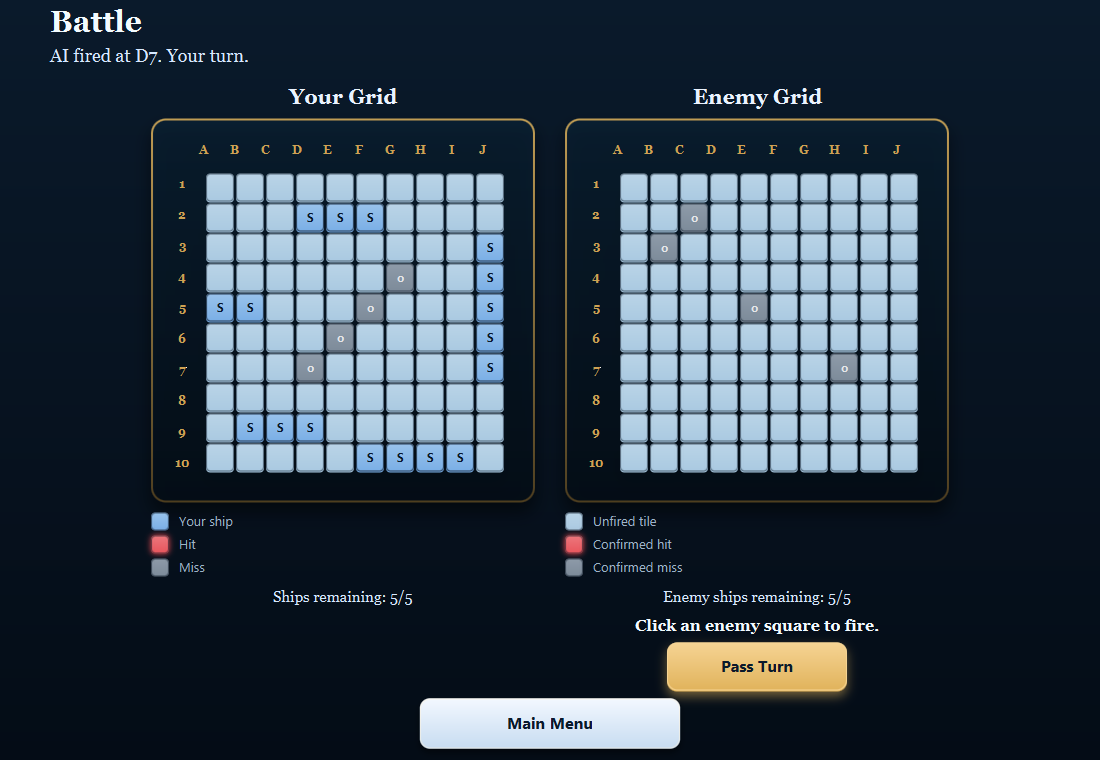
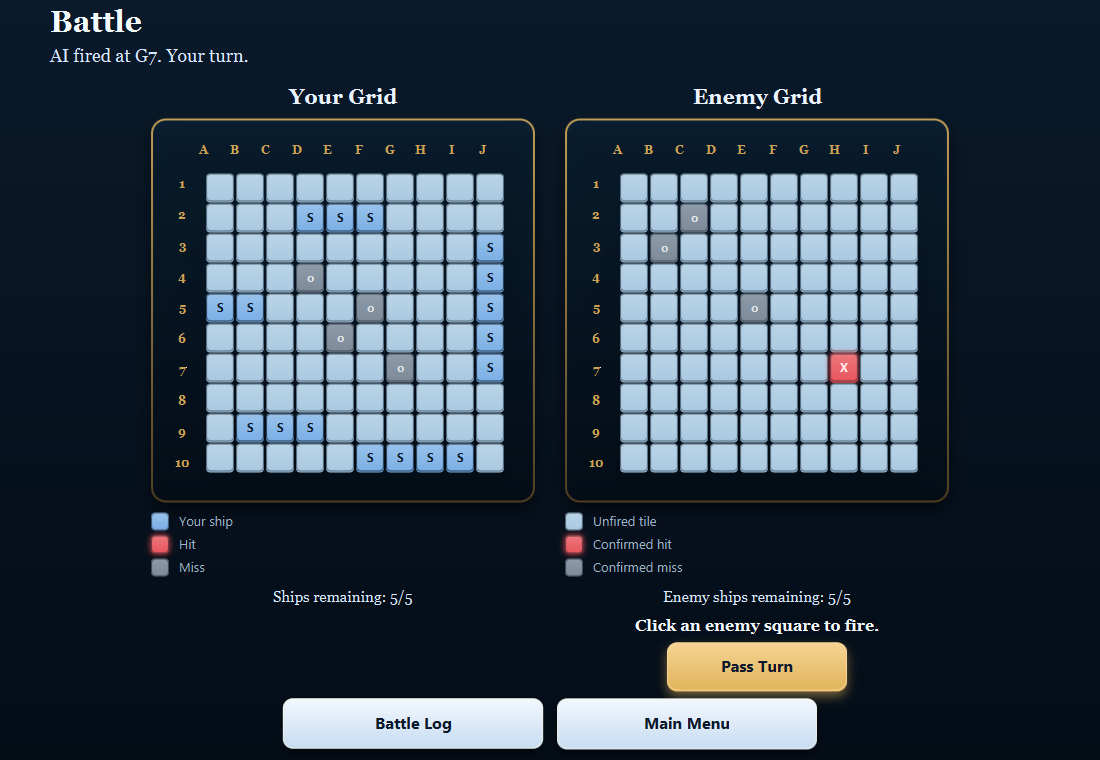
BattleshipJava 3.2
Keep a battle log, and let you read it during the game.

The status line says what just happened and then it is gone, replaced by the
next thing. That is fine while you are paying attention and useless the moment
you are not: come back to a game you left ten minutes ago and there is no way
to find out how it got into the state it is in.

Every shot from both sides is now recorded, numbered in order, saying who
fired, where, and what it did, naming the ship when one goes down. Battle Log
at the bottom of the screen opens it, scrolled to the newest entry, and
clicking outside it or pressing Close puts it away. It covers single-player,
hot-seat, where it names which player fired, and network games.

It is an overlay rather than a panel beside the boards on purpose. The battle
layout already fills the smallest window the game allows, as 2.0 found out the
hard way, and there is nothing left to give sideways without pushing the
grids off the screen again at 1100x760.

diff --git a/src/ui/GameScene.java b/src/ui/GameScene.java
@@ -82,6 +82,8 @@ public class GameScene implements NetworkMessageListener {
     // Counted for the single-player record only; see Statistics.
     private int playerShots;
     private int playerHits;
+    // Every shot of the current game, newest last, shown by the Battle Log button.
+    private final java.util.List<String> battleLog = new java.util.ArrayList<>();
     private NetworkGameSession networkSession;
     private StackPane root;
     private Pane effectsLayer;
@@ -227,7 +229,12 @@ public class GameScene implements NetworkMessageListener {
             }
             menuAction.run();
         });
-        VBox bottomBox = new VBox(12, menuButton);
+        Button logButton = UiFactory.createMenuButton("Battle Log", audioManager, this::showBattleLog);
+
+        javafx.scene.layout.HBox bottomButtons = new javafx.scene.layout.HBox(14, logButton, menuButton);
+        bottomButtons.setAlignment(Pos.CENTER);
+
+        VBox bottomBox = new VBox(12, bottomButtons);
         bottomBox.setAlignment(Pos.CENTER);
         bottomBox.setPadding(new Insets(8, 0, 8, 0));
 
@@ -267,6 +274,7 @@ public class GameScene implements NetworkMessageListener {
         }
         animateShot(playerButtons[y][x], () -> {
             AttackOutcome outcome = playerBoard.receiveAttack(x, y);
+            log("Your opponent", x, y, outcome);
             if (outcome.getResult() == AttackResult.ALREADY_ATTACKED || outcome.getResult() == AttackResult.INVALID) {
                 finishGame("Connection Closed", "An illegal network move was detected.");
                 return;
@@ -425,6 +433,7 @@ public class GameScene implements NetworkMessageListener {
             if (outcome.getResult() == AttackResult.HIT) {
                 playerHits++;
             }
+            log(isLocalMultiplayer ? "Player " + currentPlayer : "You", x, y, outcome);
 
             markEnemyClearedWater(outcome);
             clearSelectedTarget();
@@ -479,6 +488,7 @@ public class GameScene implements NetworkMessageListener {
             AttackOutcome outcome = playerBoard.receiveAttack(shot.x(), shot.y());
             boolean hit = outcome.getResult() == AttackResult.HIT;
             ai.handleShotResult(shot, outcome);
+            log("The AI", shot.x(), shot.y(), outcome);
             refreshPlayerGrid();
             updateSummaries();
             if (hit) {
@@ -614,6 +624,58 @@ public class GameScene implements NetworkMessageListener {
             networkSession.close();
         }
         finishHandler.finish(title, message);
+    }
+
+    /**
+     * The log as an overlay rather than a panel beside the boards, because the board layout
+     * already fills the smallest window the game allows and has nothing left to give.
+     */
+    private void showBattleLog() {
+        VBox entries = new VBox(4);
+        if (battleLog.isEmpty()) {
+            Label empty = new Label("Nothing has happened yet.");
+            empty.getStyleClass().add("muted-text");
+            entries.getChildren().add(empty);
+        } else {
+            for (String entry : battleLog) {
+                Label label = new Label(entry);
+                label.getStyleClass().add("body-text");
+                entries.getChildren().add(label);
+            }
+        }
+
+        javafx.scene.control.ScrollPane scroller = new javafx.scene.control.ScrollPane(entries);
+        scroller.setFitToWidth(true);
+        scroller.setPrefViewportHeight(360);
+        scroller.getStyleClass().add("terms-scroll");
+
+        VBox panel = new VBox(14, UiFactory.createSectionTitle("Battle Log"), scroller);
+        panel.getStyleClass().add("panel");
+        panel.setPadding(new Insets(20, 24, 22, 24));
+        panel.setMaxSize(560, 500);
+
+        StackPane overlay = new StackPane(panel);
+        overlay.getStyleClass().add("turn-overlay");
+        overlay.setOnMouseClicked(event -> root.getChildren().remove(overlay));
+
+        Button close = UiFactory.createMenuButton("Close", audioManager, () -> root.getChildren().remove(overlay));
+        panel.getChildren().add(close);
+
+        root.getChildren().add(overlay);
+        // Open at the newest entry, which is the one you just caused.
+        javafx.application.Platform.runLater(() -> scroller.setVvalue(1.0));
+    }
+
+    private void log(String who, int x, int y, AttackOutcome outcome) {
+        String what;
+        if (outcome.getResult() != AttackResult.HIT) {
+            what = "missed";
+        } else if (outcome.isSunkShip() && outcome.getShipType() != null) {
+            what = "hit and sank the " + outcome.getShipType().getDisplayName().toLowerCase();
+        } else {
+            what = "hit";
+        }
+        battleLog.add(battleLog.size() + 1 + ".  " + who + " " + what + " at " + toGridRef(x, y));
     }
 
     private int countSunkPlayerShips() {

diff --git a/README.md b/README.md
@@ -149,6 +149,10 @@ to fire at it. A red **X** is a hit, a grey **o** is a miss, and the status line
 what happened and whose turn it is. When you sink something, the game names the ship you sank.
 Play alternates until one fleet is completely destroyed.
 
+**Battle Log** at the bottom of the screen opens a numbered record of every shot in the current
+game, both sides, saying where it landed and what it hit. It opens at the most recent entry, and
+clicking anywhere outside it closes it again.
+
 ---
 
 ## Game modes
